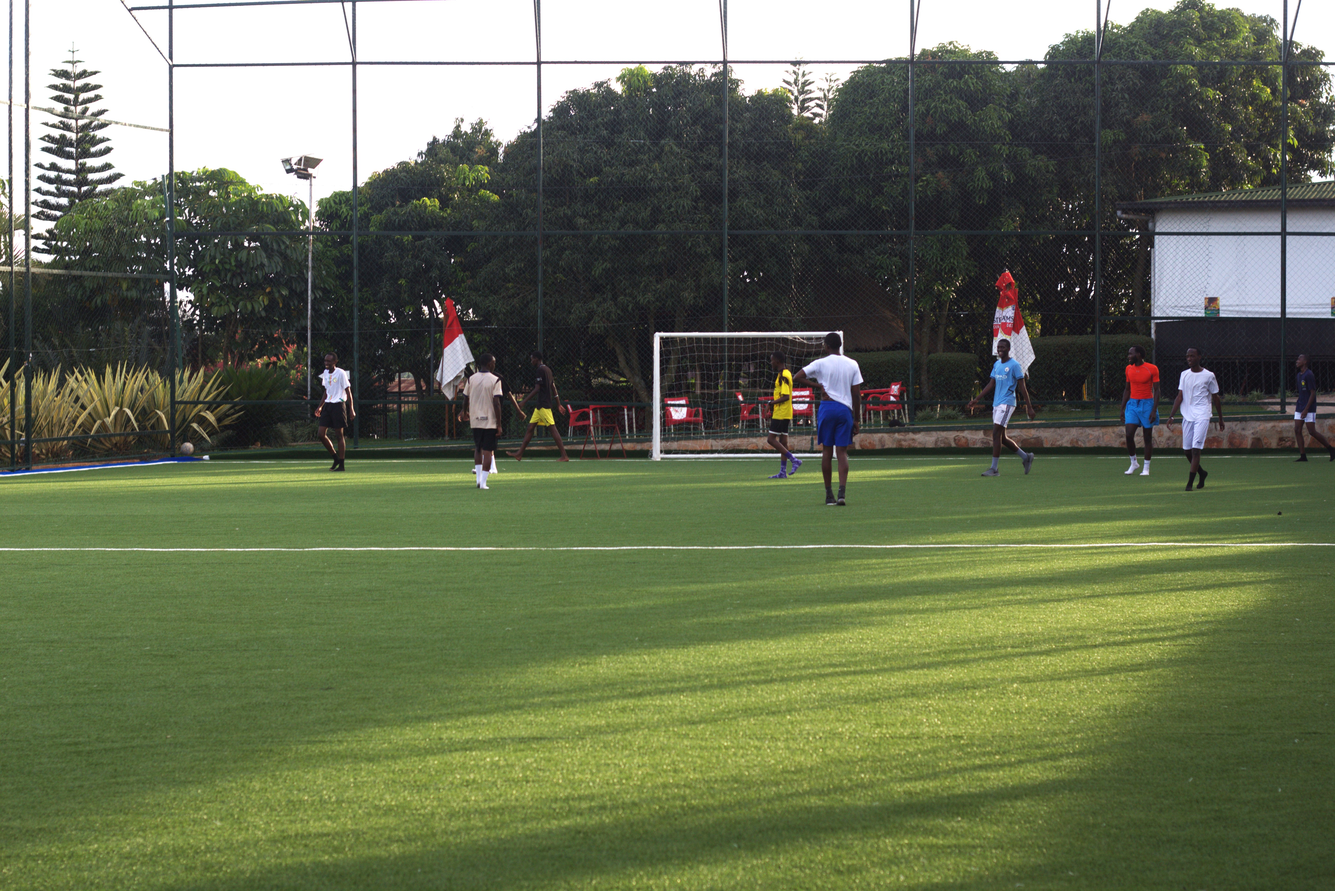
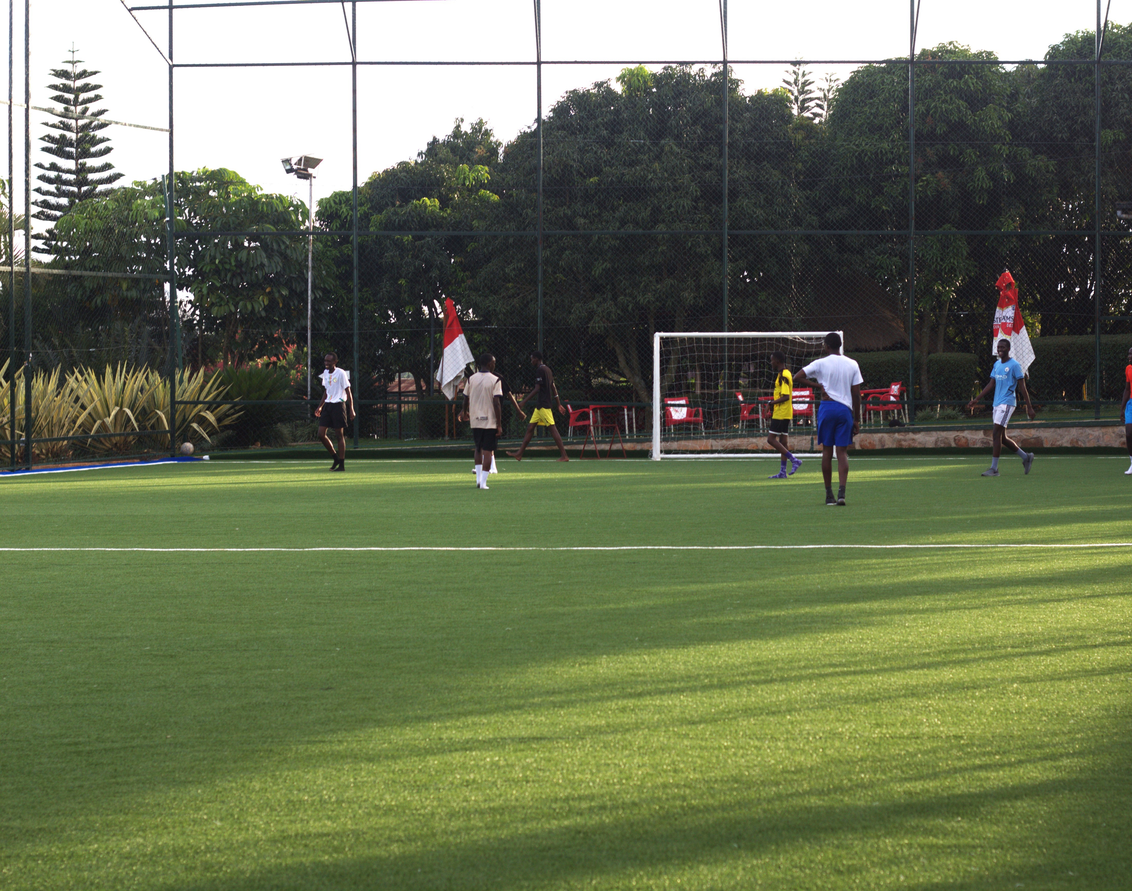
fix:inventory update error

diff --git a/src/App.tsx b/src/App.tsx
@@ -7,6 +7,17 @@ import { BookPage } from './pages/BookPage';
 import { OrganizationsPage } from './pages/OrganizationsPage';
 import { ContactPage } from './pages/ContactPage';
 import { AdminPage } from './pages/AdminPage';
+
+const WHATSAPP_URL = 'https://wa.me/250789619991?text=Hello%20Soka%20Zone%2C%20I%20need%20help%20with%20booking.';
+
+function WhatsAppIcon() {
+  return (
+    <svg viewBox="0 0 24 24" className="h-6 w-6" aria-hidden="true" fill="currentColor">
+      <path d="M20.52 3.48A11.86 11.86 0 0 0 12.07 0C5.5 0 .16 5.34.16 11.9c0 2.1.55 4.15 1.6 5.97L0 24l6.32-1.66a11.9 11.9 0 0 0 5.75 1.47h.01c6.56 0 11.9-5.34 11.9-11.9 0-3.18-1.24-6.17-3.46-8.43ZM12.08 21.8h-.01a9.88 9.88 0 0 1-5.04-1.39l-.36-.21-3.75.98 1-3.66-.24-.38a9.86 9.86 0 0 1-1.51-5.25c0-5.46 4.45-9.9 9.92-9.9a9.8 9.8 0 0 1 7.02 2.91 9.82 9.82 0 0 1 2.9 7c0 5.47-4.45 9.9-9.91 9.9Zm5.43-7.42c-.3-.15-1.8-.89-2.08-.99-.28-.1-.48-.15-.68.15-.2.3-.78.98-.95 1.19-.18.2-.35.23-.65.08-.3-.15-1.25-.46-2.38-1.47-.88-.78-1.48-1.75-1.65-2.04-.17-.3-.02-.46.13-.6.14-.14.3-.35.45-.53.15-.18.2-.3.3-.5.1-.2.05-.38-.02-.53-.08-.15-.68-1.64-.93-2.24-.25-.6-.5-.51-.68-.52l-.58-.01c-.2 0-.53.08-.8.38-.28.3-1.05 1.03-1.05 2.51 0 1.48 1.08 2.9 1.23 3.1.15.2 2.12 3.24 5.13 4.54.72.31 1.28.5 1.72.64.72.23 1.37.2 1.88.12.58-.09 1.8-.74 2.05-1.45.25-.71.25-1.32.17-1.45-.08-.13-.28-.2-.58-.35Z" />
+    </svg>
+  );
+}
+
 export function App() {
   const [currentPage, setCurrentPage] = useState<PageId>('home');
   const renderPage = () => {
@@ -28,10 +39,19 @@ export function App() {
     }
   };
   return (
-    <div className="min-h-screen bg-white font-sans text-gray-900 selection:bg-green-200 selection:text-green-900 flex flex-col">
+    <div className="min-h-screen bg-white text-gray-900 selection:bg-green-200 selection:text-green-900 flex flex-col">
       <Navbar currentPage={currentPage} onNavigate={setCurrentPage} />
       <main className="flex-grow">{renderPage()}</main>
       <Footer onNavigate={setCurrentPage} />
+      <a
+        href={WHATSAPP_URL}
+        target="_blank"
+        rel="noopener noreferrer"
+        aria-label="Chat with Soka Zone on WhatsApp"
+        className="fixed bottom-5 right-5 z-50 inline-flex h-14 w-14 items-center justify-center rounded-full bg-[#25D366] text-white shadow-lg transition-transform duration-300 hover:scale-110 hover:bg-[#1EBE5D]"
+      >
+        <WhatsAppIcon />
+      </a>
     </div>);
 
 }

diff --git a/src/pages/ContactPage.tsx b/src/pages/ContactPage.tsx
@@ -1,5 +1,16 @@
 import { PageHero } from '../components/PageHero';
 import { Mail, Phone, MapPin, Clock } from 'lucide-react';
+
+const WHATSAPP_URL = 'https://wa.me/250789619991?text=Hello%20Soka%20Zone%2C%20I%20need%20help%20with%20booking.';
+
+function WhatsAppIcon() {
+  return (
+    <svg viewBox="0 0 24 24" className="w-6 h-6 text-white" aria-hidden="true" fill="currentColor">
+      <path d="M20.52 3.48A11.86 11.86 0 0 0 12.07 0C5.5 0 .16 5.34.16 11.9c0 2.1.55 4.15 1.6 5.97L0 24l6.32-1.66a11.9 11.9 0 0 0 5.75 1.47h.01c6.56 0 11.9-5.34 11.9-11.9 0-3.18-1.24-6.17-3.46-8.43ZM12.08 21.8h-.01a9.88 9.88 0 0 1-5.04-1.39l-.36-.21-3.75.98 1-3.66-.24-.38a9.86 9.86 0 0 1-1.51-5.25c0-5.46 4.45-9.9 9.92-9.9a9.8 9.8 0 0 1 7.02 2.91 9.82 9.82 0 0 1 2.9 7c0 5.47-4.45 9.9-9.91 9.9Zm5.43-7.42c-.3-.15-1.8-.89-2.08-.99-.28-.1-.48-.15-.68.15-.2.3-.78.98-.95 1.19-.18.2-.35.23-.65.08-.3-.15-1.25-.46-2.38-1.47-.88-.78-1.48-1.75-1.65-2.04-.17-.3-.02-.46.13-.6.14-.14.3-.35.45-.53.15-.18.2-.3.3-.5.1-.2.05-.38-.02-.53-.08-.15-.68-1.64-.93-2.24-.25-.6-.5-.51-.68-.52l-.58-.01c-.2 0-.53.08-.8.38-.28.3-1.05 1.03-1.05 2.51 0 1.48 1.08 2.9 1.23 3.1.15.2 2.12 3.24 5.13 4.54.72.31 1.28.5 1.72.64.72.23 1.37.2 1.88.12.58-.09 1.8-.74 2.05-1.45.25-.71.25-1.32.17-1.45-.08-.13-.28-.2-.58-.35Z" />
+    </svg>
+  );
+}
+
 export function ContactPage() {
   const contactMethods = [
   {
@@ -18,6 +29,15 @@ export function ContactPage() {
     content: '+250 792 887 614',
     isLink: true,
     href: 'tel:+250792887614',
+    linkColor: 'text-green-600'
+  },
+  {
+    icon: <WhatsAppIcon />,
+    iconBg: 'bg-[#25D366]',
+    title: 'WhatsApp',
+    content: '+250 789 619 991',
+    isLink: true,
+    href: WHATSAPP_URL,
     linkColor: 'text-green-600'
   },
   {
@@ -54,6 +74,14 @@ export function ContactPage() {
           className="bg-transparent border-2 border-white text-white hover:bg-white hover:text-blue-900 px-6 py-2 rounded-md font-bold transition-colors">
           
           Call Us Now
+        </a>
+        <a
+          href={WHATSAPP_URL}
+          target="_blank"
+          rel="noopener noreferrer"
+          className="bg-[#25D366] text-white hover:bg-[#1EBE5D] px-6 py-2 rounded-md font-bold transition-colors inline-flex items-center gap-2">
+          <WhatsAppIcon />
+          Chat on WhatsApp
         </a>
       </PageHero>
 

diff --git a/src/pages/HomePage.tsx b/src/pages/HomePage.tsx
@@ -6,10 +6,10 @@ const pitchImage = "/assets/IMG_5479.jpg";
 const actionImage = "/assets/IMG_5480.jpg";
 const nightImage = "/assets/IMG_5481.jpg";
 const teamImage = "/assets/IMG_5482.jpg";
-const playersImage = "/assets/small_pitch4.webp";
+const playersImage = "/assets/IMG_5497.jpg";
 const galleryImages = [
   "/assets/IMG_5487.jpg",
-  "/assets/IMG_5489.jpg",
+  "/assets/IMG_5478.jpg",
   "/assets/IMG_5494.jpg",
   "/assets/IMG_5497.jpg",
   "/assets/IMG_548r1.jpg",
@@ -18,8 +18,8 @@ const galleryImages = [
 
 const eventImages = [
   "/assets/small_tournament.webp",
-  "/assets/field3.jpeg",
-  "/assets/small_tournament2.webp",
+  "/assets/IMG_5481.jpg",
+  "/assets/IMG_5489.jpg",
 ];
 
 interface HomePageProps {

diff --git a/src/index.css b/src/index.css
@@ -152,6 +152,10 @@ html {
   scroll-behavior: smooth;
 }
 
+body {
+  font-family: "Tw Cen MT", "TwCen MT", "Century Gothic", sans-serif;
+}
+
 /* Custom Scrollbar */
 ::-webkit-scrollbar {
   width: 8px;
